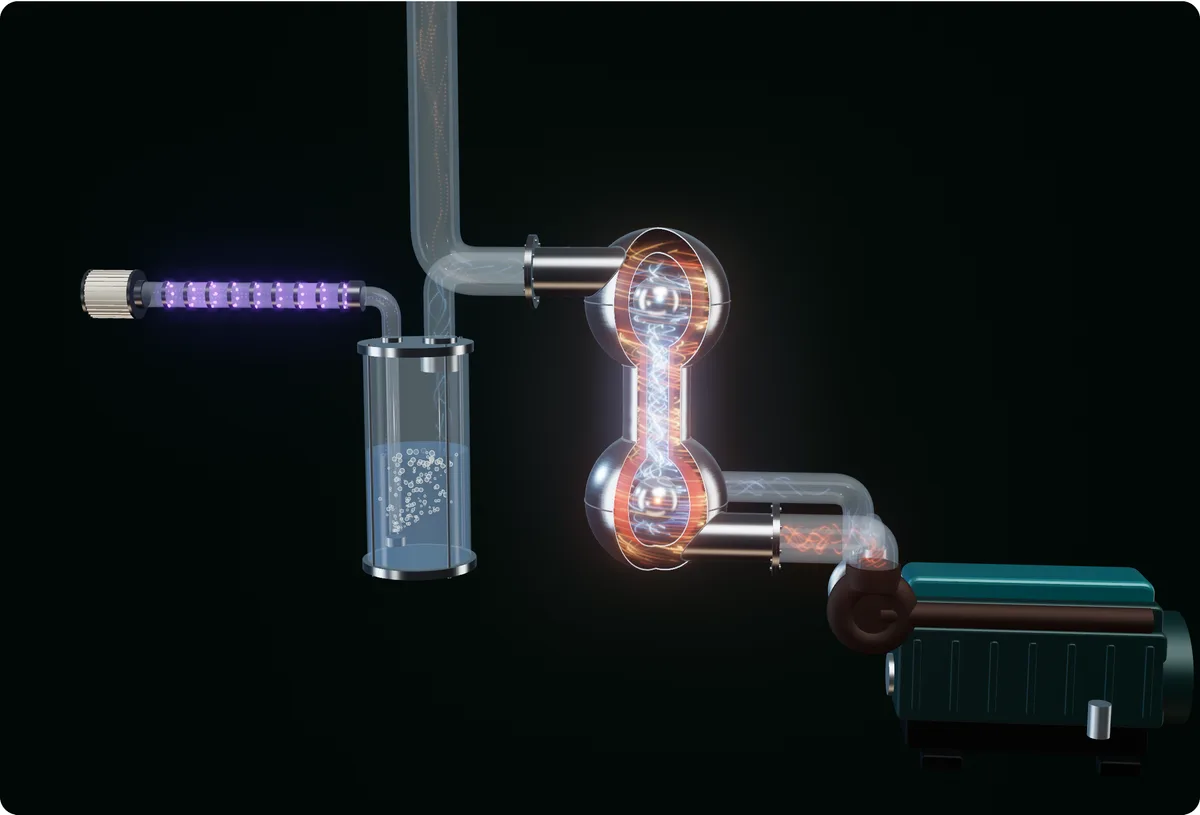
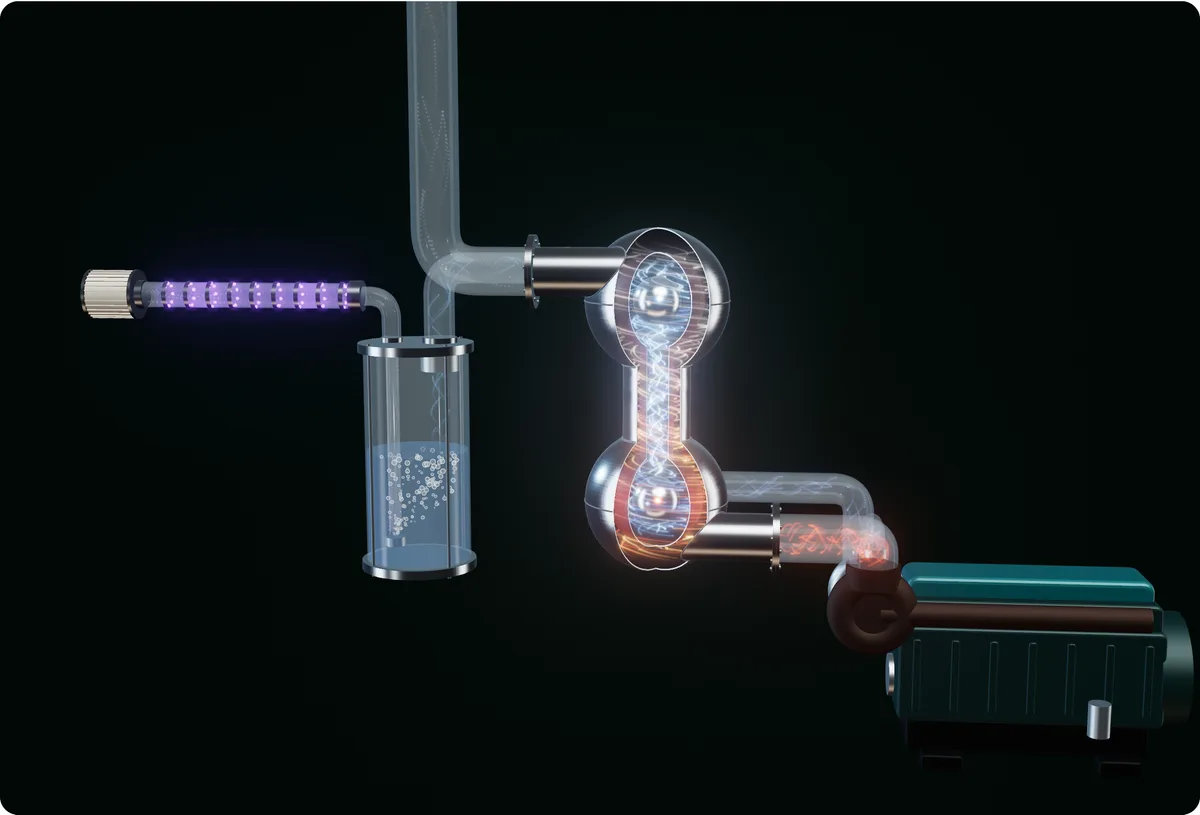
Lead with cleaner exhaust, not temperature; the founder ran the vessel's engineering
From the owner's review:
- The story was about heat; the point of the system is cleaner exhaust.
  Hero lead and caption, the six stages ("Counter-flow" in place of
  "Heat exchange"), the aims and the Technology lead now say so, in
  "designed to" wording. No heat or temperature language is left.
- In both live drawings the exhaust now enters the Vajra dense and orange
  and leaves pale and thin, and the run out of the boat is drawn pale.
  The glowing wall is turned well down.
- Founder: 13 years as the engineer on yachts, responsible for all of the
  vessel's engineering, not only its engines.
- New home page picture from the updated scene.

Claude-Session: https://claude.ai/code/session_01BCrT9wgBrHqrd7Uxjx6sS1

diff --git a/public/technology.html b/public/technology.html
@@ -7,7 +7,7 @@
 <link rel="icon" href="/favicon.png" type="image/png" sizes="48x48" />
 <link rel="apple-touch-icon" href="/apple-touch-icon.png" />
 <title>Technology | Plasmoid X</title>
-<meta name="description" content="How Plasmoid X works: it charges the engine's intake air, warms it with heat from the exhaust and feeds it to the turbo." />
+<meta name="description" content="How Plasmoid X works: it is designed to clean a diesel engine's exhaust by treating the air before it is burned." />
 <link rel="preconnect" href="https://fonts.googleapis.com">
 <link rel="preconnect" href="https://fonts.gstatic.com" crossorigin>
 <link href="https://fonts.googleapis.com/css2?family=Chakra+Petch:wght@600&family=Plus+Jakarta+Sans:wght@500;600;700;800&family=Inter:wght@400;500;600&display=swap" rel="stylesheet">
@@ -43,7 +43,7 @@
     <div class="shell">
       <span class="section-label">The Science</span>
       <h1>Cleaning exhaust by treating the air that goes in.</h1>
-      <p class="lead">The Plasmoid X system fits between a diesel engine's air intake and its exhaust. It charges the incoming air, warms it with heat taken from the outgoing exhaust and feeds it to the turbo.</p>
+      <p class="lead">The Plasmoid X system fits between a diesel engine's air intake and its exhaust. It is designed to clean the exhaust by treating the air before it is burned, not by filtering what comes out.</p>
     </div>
   </section>
 
@@ -66,9 +66,9 @@
             <li><span class="step-num" aria-hidden="true">1</span><div><h3>UV ionizer</h3><p>Fresh air is drawn in through a filter and along a tube lit with UV light, instead of going straight into the turbo.</p></div></li>
             <li><span class="step-num" aria-hidden="true">2</span><div><h3>Bubbler</h3><p>The ionized air bubbles up through water and leaves as plasmoids. A filter keeps the water out of the engine.</p></div></li>
             <li><span class="step-num" aria-hidden="true">3</span><div><h3>Vajra</h3><p>The plasmoid air spirals through the inner chamber of two linked stainless spheres. A sealed core sphere in each one keeps it swirling.</p></div></li>
-            <li><span class="step-num" aria-hidden="true">4</span><div><h3>Counter-flow heat exchange</h3><p>Hot exhaust spirals the opposite way through the outer chamber and passes heat through the wall into the plasmoids.</p></div></li>
-            <li><span class="step-num" aria-hidden="true">5</span><div><h3>Into the engine</h3><p>The warmed plasmoids feed the turbo inlet in place of ordinary intake air. They are designed to give a more complete burn.</p></div></li>
-            <li><span class="step-num" aria-hidden="true">6</span><div><h3>Exhaust out</h3><p>The exhaust, now cooler, leaves through the outer chamber and out of the boat.</p></div></li>
+            <li><span class="step-num" aria-hidden="true">4</span><div><h3>Counter-flow</h3><p>The engine's exhaust spirals the opposite way through the outer chamber, wrapped around the plasmoid air.</p></div></li>
+            <li><span class="step-num" aria-hidden="true">5</span><div><h3>Into the engine</h3><p>The plasmoid air feeds the turbo inlet in place of ordinary intake air. It is designed to give a cleaner, more complete burn.</p></div></li>
+            <li><span class="step-num" aria-hidden="true">6</span><div><h3>Exhaust out</h3><p>The exhaust leaves through the outer chamber and out of the boat. Cleaner exhaust is what the whole system is designed for.</p></div></li>
           </ol>
           <div class="story-controls">
             <button type="button" class="story-play" data-story-play aria-pressed="false">Play</button>
@@ -80,7 +80,7 @@
         <p class="story-note">The UV ionizer, bubbler, pipe runs, turbo and engine are drawn to show how the system connects. They are not to scale.</p>
         <figure class="system-figure wide story-fallback">
           <span class="diagram-anim">
-            <img src="/assets/img/plasmoid-x-system.svg" width="700" height="905" alt="Plasmoid X system diagram. Air passes a UV ionizer and a water bubbler, then through two linked stainless spheres, the Vajra, where it is warmed by the exhaust spiralling the other way, and on to the turbo and engine.">
+            <img src="/assets/img/plasmoid-x-system.svg" width="700" height="905" alt="Plasmoid X system diagram. Air passes a UV ionizer and a water bubbler, then through two linked stainless spheres, the Vajra, with the engine's exhaust spiralling the other way around it, and on to the turbo and engine.">
             <canvas class="diagram-swirl" aria-hidden="true"></canvas>
           </span>
         </figure>
@@ -110,12 +110,12 @@
       </div>
       <div class="grid-3">
         <div class="card" data-reveal>
-          <h3>A more complete burn</h3>
-          <p style="font-size: 0.95rem;">The system works on the air before combustion, with the aim of burning more of the fuel inside the cylinder.</p>
+          <h3>Cleaner exhaust</h3>
+          <p style="font-size: 0.95rem;">The system is designed to clean the exhaust at its source, by changing the air the engine burns, instead of filtering it afterwards.</p>
         </div>
         <div class="card" data-reveal>
           <h3>Better fuel economy</h3>
-          <p style="font-size: 0.95rem;">A more complete burn would mean less fuel used to do the same work.</p>
+          <p style="font-size: 0.95rem;">Burning more of the fuel inside the cylinder would mean less fuel used to do the same work.</p>
         </div>
         <div class="card" data-reveal>
           <h3>Longer engine life</h3>

diff --git a/public/assets/js/vajra-core.js b/public/assets/js/vajra-core.js
@@ -107,7 +107,8 @@ export function createStage(canvas) {
   // Inside the chambers the steel is dark and heat-stained, so the two flows read against it.
   const liningOuter = new THREE.MeshStandardMaterial({ color: 0x14181a, metalness: 0.6, roughness: 0.7, envMapIntensity: 0.2, side: THREE.DoubleSide });
   const liningInner = new THREE.MeshStandardMaterial({ color: 0x10171c, metalness: 0.6, roughness: 0.65, envMapIntensity: 0.2, side: THREE.DoubleSide });
-  // The wall between the two flows glows where the exhaust heats it: hottest low down, where the exhaust comes in.
+  // The wall between the two flows glows a little where the exhaust first meets it, low down. Kept faint: the story
+  // is the exhaust being cleaned, not the heat.
   const heat = { value: 0 };
   const hotWall = new THREE.MeshStandardMaterial({ color: 0x120c0a, metalness: 0.7, roughness: 0.55, envMapIntensity: 0.25, emissive: 0xff4208, emissiveIntensity: 1, side: THREE.DoubleSide });
   hotWall.onBeforeCompile = (sh) => {
@@ -116,7 +117,7 @@ export function createStage(canvas) {
     sh.fragmentShader = sh.fragmentShader.replace("#include <common>", "#include <common>\nvarying float vHeatY; uniform float uHeatTime;")
       .replace("#include <emissivemap_fragment>", `#include <emissivemap_fragment>
         float hy = (vHeatY + ${(C + RI).toFixed(2)}) / ${(2 * (C + RI)).toFixed(2)};
-        float glow = mix(0.3, 0.05, smoothstep(0.0, 1.0, hy));
+        float glow = mix(0.13, 0.02, smoothstep(0.0, 1.0, hy));
         glow *= 0.72 + 0.28 * sin(hy * 26.0 - uHeatTime * 1.6);
         totalEmissiveRadiance *= glow;`);
   };
@@ -245,7 +246,7 @@ export function buildVajra(S) {
   const flowVertex = /* glsl */ `
     attribute float aSeed; attribute float aLane; attribute float aSpeed; attribute float aTrail;
     uniform float uTime, uKind, uSize, uScale, uTrail;
-    varying float vAlpha; varying float vLane;
+    varying float vAlpha; varying float vLane; varying float vAlong;
     const float C = ${C.toFixed(3)}, RO = ${(RO - T_O).toFixed(3)}, RI = ${RI.toFixed(3)}, RIN = ${(RI - T_I).toFixed(3)}, RC = ${RC.toFixed(3)};
     const float NECK_O = ${(NECK_O - T_O).toFixed(3)}, NECK_W = ${(NECK_I + T_I).toFixed(3)}, NECK_I = ${NECK_I.toFixed(3)};
     float ring(float r, float y) { float d = min(abs(y - C), abs(y + C)); return sqrt(max(r * r - d * d, 0.0)); }
@@ -273,14 +274,17 @@ export function buildVajra(S) {
       gl_PointSize = min(uSize * uScale * (1.0 - aTrail * 0.55) / -mv.z, 96.0);
       vAlpha = fade * pow(1.0 - aTrail, 1.3);
       vLane = aLane;
+      vAlong = uKind < 0.5 ? 0.0 : t; // how far the exhaust has come through the unit
     }`;
   const flowFragment = /* glsl */ `
-    uniform vec3 uColorA, uColorB; uniform float uOpacity, uSoft;
-    varying float vAlpha; varying float vLane;
+    uniform vec3 uColorA, uColorB, uClean; uniform float uOpacity, uSoft;
+    varying float vAlpha; varying float vLane; varying float vAlong;
     void main() {
       float d = length(gl_PointCoord - 0.5) * 2.0;
       float a = pow(max(1.0 - d, 0.0), uSoft);
-      gl_FragColor = vec4(mix(uColorA, uColorB, vLane), a * vAlpha * uOpacity);
+      // The exhaust comes in dense and orange and leaves pale and thin: what the system is designed to do to it.
+      float clean = smoothstep(0.25, 0.95, vAlong);
+      gl_FragColor = vec4(mix(mix(uColorA, uColorB, vLane), uClean, clean * 0.85), a * vAlpha * uOpacity * (1.0 - clean * 0.45));
     }`;
   const flows = [], body = [];
   function flow({ kind, streaks, trail, length, a, b, size, opacity, speed, soft }) {
@@ -300,7 +304,7 @@ export function buildVajra(S) {
     const m = new THREE.ShaderMaterial({
       vertexShader: flowVertex, fragmentShader: flowFragment, transparent: true, depthWrite: false, blending: THREE.AdditiveBlending, fog: false,
       uniforms: { uTime: { value: 0 }, uKind: { value: kind }, uSize: { value: size }, uScale: { value: 1 }, uTrail: { value: length }, uSoft: { value: soft },
-        uOpacity: { value: 0 }, uColorA: { value: new THREE.Color(a) }, uColorB: { value: new THREE.Color(b) } },
+        uOpacity: { value: 0 }, uColorA: { value: new THREE.Color(a) }, uColorB: { value: new THREE.Color(b) }, uClean: { value: new THREE.Color(0xdfeaf0) } },
     });
     m.userData.opacity = opacity;
     const pts = new THREE.Points(g, m);

diff --git a/public/index.html b/public/index.html
@@ -46,7 +46,7 @@
     <div class="shell hero-vajra-grid">
       <div class="hero-copy">
         <h1>Clean the air going in. <span>Not the smoke coming out.</span></h1>
-        <p class="lead">Plasmoid X is a retrofit for yacht diesel engines. It charges and warms the intake air so the fuel burns more completely. It is designed to cut fuel burn, soot and emissions, with no filter media to clog and no chemicals to dose.</p>
+        <p class="lead">Plasmoid X is a retrofit for yacht diesel engines, designed to clean the exhaust at its source. It changes the air the engine breathes, so there is no filter media to clog and no chemicals to dose. It is also designed to cut fuel burn and soot.</p>
         <div class="btn-row hero-actions">
           <a href="/enquiries.html" class="btn btn-primary">Enquire about a retrofit</a>
           <a href="#how-it-works" class="btn btn-outline">See how it works</a>
@@ -60,7 +60,7 @@
         <p class="vajra-label" data-anchor="exhaust"><span>Exhaust spirals up, the other way</span></p>
       </div>
     </div>
-    <p class="shell vajra-caption">The Vajra, cut open. Heat passes from the exhaust to the intake air through the wall between them.</p>
+    <p class="shell vajra-caption">The Vajra, cut open. Intake air spirals down the centre while the engine's exhaust spirals up around it.</p>
   </section>
 
   <section class="problem">
@@ -94,11 +94,11 @@
           <li><strong>UV ionizer.</strong> Fresh air is drawn in along a tube lit with UV light.</li>
           <li><strong>Bubbler.</strong> It bubbles up through water and leaves as plasmoids.</li>
           <li><strong>Vajra.</strong> The plasmoid air spirals through two linked stainless spheres.</li>
-          <li><strong>Heat exchange.</strong> Hot exhaust spirals the other way and warms it through the wall.</li>
-          <li><strong>Into the engine.</strong> The warmed plasmoids feed the turbo.</li>
-          <li><strong>Exhaust out.</strong> The exhaust leaves cooler, and out of the boat.</li>
+          <li><strong>Counter-flow.</strong> The engine's exhaust spirals the other way, wrapped around it.</li>
+          <li><strong>Into the engine.</strong> The plasmoid air feeds the turbo in place of ordinary air.</li>
+          <li><strong>Exhaust out.</strong> Cleaner exhaust leaving the boat is what the system is designed for.</li>
         </ol>
-        <p class="aims"><strong>What it is designed to do:</strong> burn less fuel for the same work, send cleaner exhaust out of the boat, and cut the soot that wears cylinders and internals.</p>
+        <p class="aims"><strong>What it is designed to do:</strong> send cleaner exhaust out of the boat, burn less fuel for the same work, and cut the soot that wears cylinders and internals.</p>
         <a class="text-link" href="/technology.html#how-it-works">Watch it work, stage by stage</a>
       </div>
       <a class="brief-poster" href="/technology.html#how-it-works">
@@ -113,7 +113,7 @@
       <div class="founder-photo has-img"><img src="/assets/img/ricardo-negri.webp" width="317" height="317" loading="lazy" decoding="async" alt="Ricardo Negri, founder of Plasmoid X"></div>
       <div>
         <h2>Designed and built by an engineer</h2>
-        <p>Ricardo Negri spent 13 years as an engineer on sailing and motor yachts, keeping their engines running day to day. Alongside that he has followed plasma physics for years, and he believes the science is at the start of a new age.</p>
+        <p>Ricardo Negri spent 13 years as the engineer on sailing and motor yachts, responsible for all of the vessel's engineering, not only its engines. Alongside that he has followed plasma physics for years, and he believes the science is at the start of a new age.</p>
         <p>Plasmoid X oversees every installation, and any contractors we bring in are vetted to the same standard.</p>
         <a class="text-link" href="/about.html">Meet the founder</a>
       </div>

diff --git a/public/assets/js/story.js b/public/assets/js/story.js
@@ -137,7 +137,7 @@ function start() {
     });
   }
   const few = small ? 0.6 : 1;
-  const AIR = 0xdfeefc, IONIZED = 0xb18cff, PLASMOID = 0x7fc4ff, WARMED = 0x9fb6ff, HOT = 0xff6a24, COOLED = 0xd99a6a;
+  const AIR = 0xdfeefc, IONIZED = 0xb18cff, PLASMOID = 0x7fc4ff, WARMED = 0x9fb6ff, HOT = 0xff5a1a, CLEAN = 0xdfeaf0;
 
   // ---- 2. The bubbler: a sealed, clear column of water. Air comes down a dip tube and bubbles up through it. ----
   const ION = V(-3.9, -2.9, -2.3), ION_R = 0.82, ION_H = 3.3, WATER = ION_H * 0.52;
@@ -279,11 +279,11 @@ function start() {
   // 4. Hot exhaust from the turbine up into the Vajra's lower exhaust port.
   const fromEngine = run([[TURBO.x, TURBO.y + 0.55, TURB_Z], [TURBO.x, -yExh, TURB_Z], [STUB, -yExh, TURB_Z]], 0.5);
   pipe(fromEngine, EXH_R, { start: null, end: "flange" });
-  stream(fromEngine, EXH_R * 0.9, { color: HOT, count: Math.round(40 * few), trail: 26, gap: 0.006, size: 3.4, opacity: 0.3, speed: 0.11, turns: 3 });
-  // 6. Cooler exhaust from the upper exhaust port, away and out of the boat.
+  stream(fromEngine, EXH_R * 0.9, { color: HOT, count: Math.round(52 * few), trail: 26, gap: 0.006, size: 3.6, opacity: 0.36, speed: 0.11, turns: 3 });
+  // 6. The exhaust from the upper exhaust port, away and out of the boat: drawn pale and thin beside what came in.
   const out = run([[-STUB, yExh, EXH_OFF], [-3.0, yExh, EXH_OFF], [-3.0, 11, EXH_OFF]], 0.6);
   pipe(out, EXH_R, { to: 0.9, start: "flange" });
-  stream(out, EXH_R * 0.9, { color: COOLED, count: Math.round(40 * few), trail: 26, gap: 0.005, size: 3.4, opacity: 0.2, speed: 0.07, turns: 3, fadeOut: 0.3 });
+  stream(out, EXH_R * 0.9, { color: CLEAN, count: Math.round(26 * few), trail: 26, gap: 0.005, size: 3.0, opacity: 0.14, speed: 0.07, turns: 3, fadeOut: 0.3 });
 
   const lens = createLens(S);
 
@@ -309,7 +309,7 @@ function start() {
     { pos: [-7.9, 2.6, 5.6], look: [-7.45, 1.15, -2.3], air: 1, exh: 0.5 }, // 1 the UV ionizer
     { pos: [-1.9, 0.5, 5.6], look: [-3.9, -1.0, -2.3], air: 1, exh: 0.5 }, // 2 the bubbler
     { pos: [2.6, 2.6, 8.8], look: [0.55, 0.7, 0], air: 1.25, exh: 0.3 }, // 3 the Vajra: the air's spiral
-    { pos: [2.0, -1.6, 7.6], look: [0, -0.75, 0], air: 0.45, exh: 1.35 }, // 4 heat exchange: the exhaust's spiral
+    { pos: [2.0, -1.6, 7.6], look: [0, -0.75, 0], air: 0.45, exh: 1.35 }, // 4 counter-flow: the exhaust's spiral
     { pos: [6.6, 0.7, 8.4], look: [3.6, -2.6, -0.6], air: 1, exh: 0.8 }, // 5 into the engine
     { pos: [-2.0, 4.2, 12.5], look: [-1.3, 3.1, 0.3], air: 0.5, exh: 1.2 }, // 6 exhaust out
   ].map((s) => ({ pos: V(...s.pos), look: V(...s.look), air: s.air, exh: s.exh, slide: poster ? 0 : s.slide ?? 0.22 }));

diff --git a/public/about.html b/public/about.html
@@ -41,7 +41,7 @@
     <div class="shell">
       <span class="section-label">About</span>
       <h1>13 years on the water, before this was ever a business.</h1>
-      <p class="lead">Plasmoid X was founded by an engineer who spent years maintaining marine engines and wanted a cleaner, longer-lasting way to run them.</p>
+      <p class="lead">Plasmoid X was founded by an engineer who spent years responsible for the engineering of yachts and wanted a cleaner, longer-lasting way to run their engines.</p>
     </div>
   </section>
 
@@ -51,7 +51,7 @@
       <div>
         <span class="badge">The Founder</span>
         <h2>Designed and built by an engineer</h2>
-        <p>Ricardo Negri founded Plasmoid X after more than 13 years as an engineer on sailing and motor yachts, looking after their engines day to day.</p>
+        <p>Ricardo Negri founded Plasmoid X after more than 13 years as the engineer on sailing and motor yachts, responsible for all of the vessel's engineering, not only its engines.</p>
         <p>Alongside the day job he has spent years reading and testing ideas in plasma physics, well beyond what the textbooks cover. He believes we are on the edge of a new age in plasma science, and Plasmoid X is where he puts that to work.</p>
         <p>Plasmoid X oversees every installation, and any contractors we bring in are vetted to the same standard. Support continues after the install is finished.</p>
       </div>

diff --git a/PRODUCT.md b/PRODUCT.md
@@ -18,6 +18,10 @@ instead of cleaning the exhaust after it. The site's job is to make that idea un
 (the enquiry form). Success = a qualified enquiry.
 
 ## Positioning
+The point of the system is cleaner exhaust (owner, 17 Nov 2026): copy and drawings lead with that, not with
+temperature or heat exchange. In drawings the exhaust enters the Vajra dense and orange and leaves pale and thin.
+The words stay "designed to" until a diesel result with a baseline exists.
+
 Every other system (SCR, diesel particulate filters) works on the exhaust after combustion. Plasmoid X works on the air
 going in: no filter media to clog, no chemicals to dose, and it connects to the exhaust runs the vessel already has.
 
@@ -46,8 +50,9 @@ the complete retrofit; Plasmoid X oversees every installation.
   filtered intake and the exhaust outlet.
 - Pages stay clean and easy to read; no section may take over scrolling. The live "follow the air" player is on the
   Technology page and plays once, then stops (owner, 17 Nov 2026).
-- The founder is described as an engineer, not a "yacht engineer"; he has a long interest in plasma physics and
-  believes it is at the start of a new age.
+- The founder is described as an engineer, not a "yacht engineer": for 13 years he was the engineer on yachts,
+  responsible for all of the vessel's engineering, not only its engines. He has a long interest in plasma physics
+  and believes it is at the start of a new age.
 - Never use "aboard": "on board", two words.
 - No "trial", "in development" or "unfinished" wording (owner).
 - Claims stay as "designed to" until measured figures are supplied.
